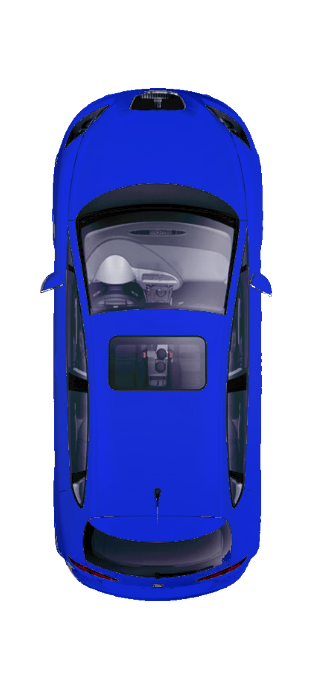
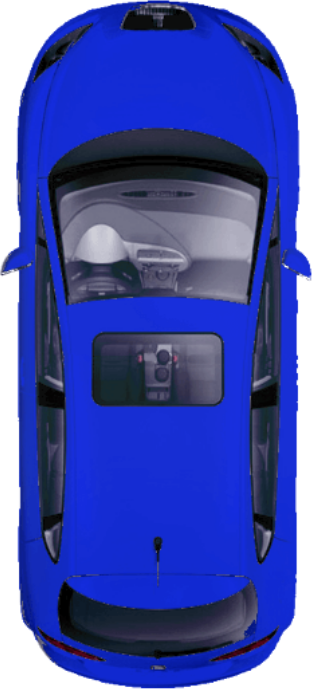
change directory for cars

diff --git a/js/game-arcade.js b/js/game-arcade.js
@@ -103,7 +103,7 @@ var timer = null;
 var canvas = document.getElementById("canvas"); //получем Canvas из DOM
 var ctx = canvas.getContext("2d"); //получаем внутренность Canvas для работы с ним
 
-var scale = 0.24; //масштаб машин
+var scale = 0.21; //масштаб машин
 
 Resize(); //Изменяет размер Canvas при загрузке страницы
 
@@ -147,13 +147,13 @@ function Update() {
     roads[1].Update(roads[0]);
 
     let cars = [
-        "images/car_1.png",
-        "images/car_2.png",
-        "images/car_3.png",
-        "images/car_4.png",
-        "images/car_5.png",
-        "images/car_6.png",
-        "images/car_7.png",
+        "images/Smooth models/Leon/car_1.png",
+        "images/Smooth models/Leon/car_2.png",
+        "images/Smooth models/Leon/car_3.png",
+        "images/Smooth models/Leon/car_4.png",
+        "images/Smooth models/Leon/car_5.png",
+        "images/Smooth models/Leon/car_6.png",
+        "images/Smooth models/Leon/car_7.png",
     ];
 
     let randomCarsSrc = cars[Math.floor(Math.random() * cars.length)];
